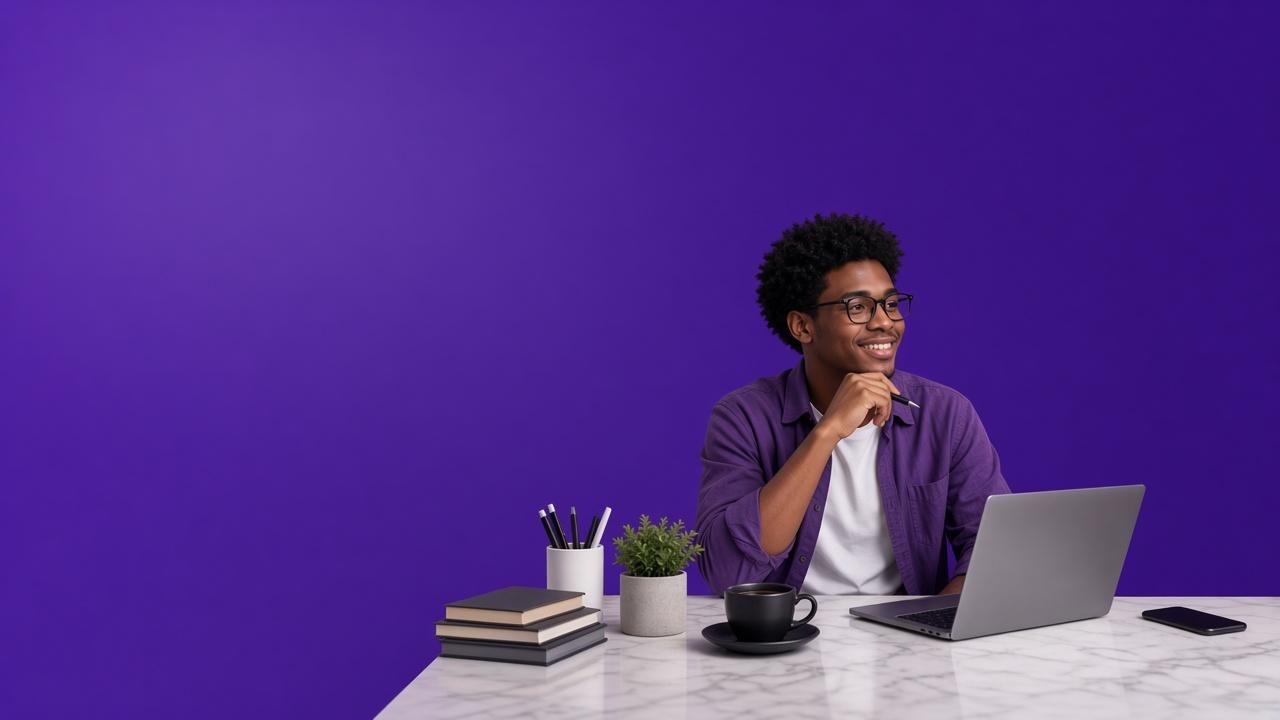
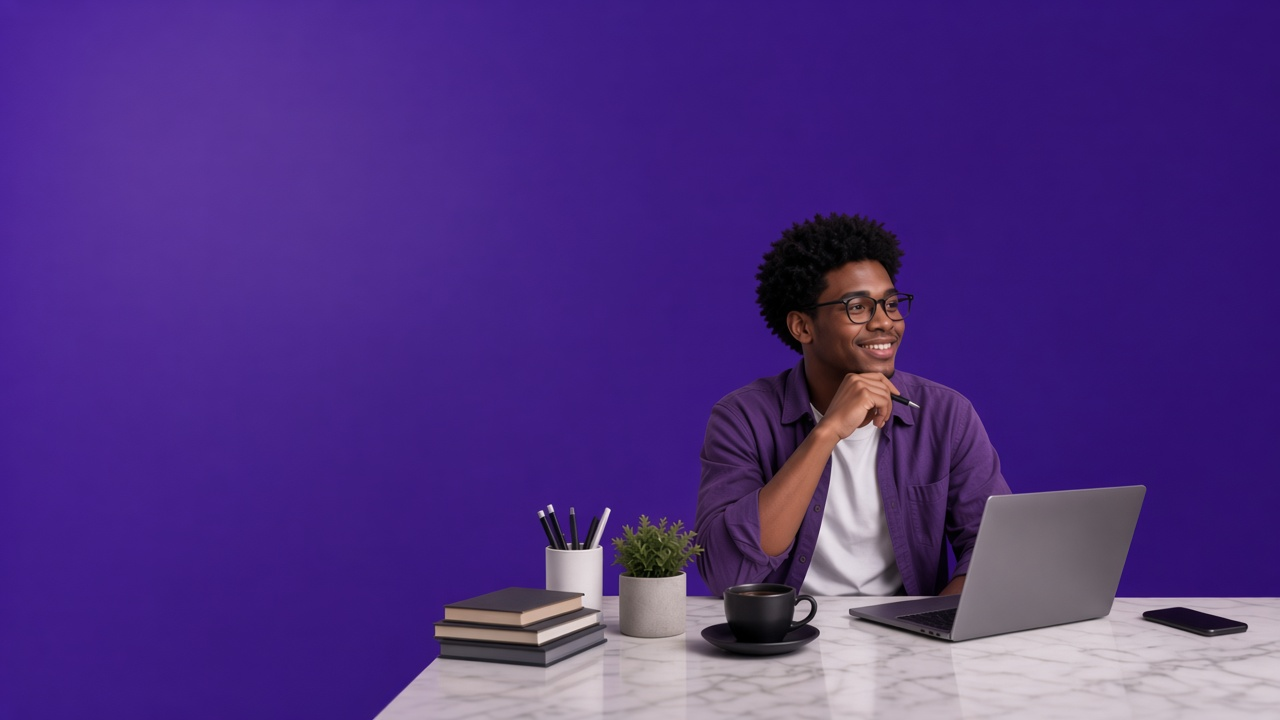
Polish Beyond AI to match the full-bleed touch layout.
Tighten the left copy to two title lines and replace the boxed preview with a glass website mockup over the scene photo.

diff --git a/components/home/beyond-ai-section.tsx b/components/home/beyond-ai-section.tsx
@@ -8,7 +8,6 @@ import {
   ArrowRight,
   Check,
   Globe,
-  Menu,
   PenLine,
   Sparkles,
   Zap,
@@ -30,6 +29,16 @@ const stepIcons: Record<CmsBeyondAiHighlight["icon"], typeof Zap> = {
   rocket: Globe,
 };
 
+const previewThumbs = [
+  {
+    src: "/images/home/beyond-ai/alpine-trails.jpg",
+    label: "Adventure Awaits",
+  },
+  { src: "/images/home/beyond-ai/luxe-stay.jpg", label: "Stay" },
+  { src: "/images/home/beyond-ai/ocean-escapes.jpg", label: "Coast" },
+  { src: "/images/home/beyond-ai/desert-dunes.jpg", label: "City" },
+];
+
 function FloatChip({
   className,
   delay,
@@ -42,11 +51,11 @@ function FloatChip({
   return (
     <motion.span
       className={cn(
-        "absolute z-20 grid size-[52px] place-items-center rounded-[18px] bg-[#7c3aed] text-white shadow-[0_16px_32px_rgba(47,28,106,0.32)] ring-1 ring-white/20",
+        "absolute z-20 grid size-11 place-items-center rounded-[14px] bg-[#7c3aed] text-white shadow-[0_12px_28px_rgba(47,28,106,0.34)] ring-1 ring-white/25",
         className,
       )}
-      animate={{ y: [0, -10, 0] }}
-      transition={{ duration: 3.6, delay, repeat: Infinity, ease: "easeInOut" }}
+      animate={{ y: [0, -9, 0] }}
+      transition={{ duration: 3.5, delay, repeat: Infinity, ease: "easeInOut" }}
     >
       {children}
     </motion.span>
@@ -55,36 +64,74 @@ function FloatChip({
 
 function PreviewCard({ href }: { href: string }) {
   return (
-    <div className="rounded-[26px] bg-white p-5 shadow-[0_28px_70px_-24px_rgba(15,10,40,0.5)] sm:p-6">
-      <div className="flex items-center justify-between gap-3 text-[10px] font-semibold text-slate-400">
-        <span className="inline-flex items-center gap-1.5 text-[12px] font-extrabold text-[#4c1d95]">
-          <Sparkles className="size-3.5" aria-hidden />
-          Beyond AI
-        </span>
-        <span className="hidden items-center gap-3 xl:flex">
-          Home
-          <span>Templates</span>
-          <span>Features</span>
-          <span>Pricing</span>
-          <span>Sign In</span>
-        </span>
-        <Menu className="size-4 text-slate-400" aria-hidden />
+    <div className="relative">
+      <div className="overflow-hidden rounded-[22px] bg-white/95 p-4 shadow-[0_28px_70px_-20px_rgba(20,8,60,0.45)] ring-1 ring-white/70 backdrop-blur-md sm:p-5">
+        <div className="flex items-center justify-between gap-2 text-[10px] font-semibold text-slate-400">
+          <span className="inline-flex items-center gap-1.5 text-[11px] font-extrabold text-[#4c1d95]">
+            <Sparkles className="size-3.5" aria-hidden />
+            Beyond AI
+          </span>
+          <span className="hidden items-center gap-2.5 xl:flex">
+            Home
+            <span>Templates</span>
+            <span>Features</span>
+            <span>Pricing</span>
+            <span>Sign In</span>
+          </span>
+        </div>
+
+        <div className="mt-4 grid gap-4 sm:grid-cols-[minmax(0,0.95fr)_minmax(0,1.05fr)] sm:items-start">
+          <div>
+            <p className="font-heading text-[1.35rem] leading-[1.08] font-extrabold tracking-[-0.04em] text-slate-950 sm:text-[1.5rem]">
+              Turn Your Ideas
+              <br />
+              Into Real Websites
+            </p>
+            <p className="mt-2 max-w-[15rem] text-[11.5px] leading-relaxed text-slate-500">
+              Drag, drop and make it live in minutes with AI.
+            </p>
+            <Link
+              href={href}
+              className="mt-4 inline-flex h-9 items-center rounded-full bg-[#7c3aed] px-4 text-[12px] font-bold text-white"
+            >
+              Start Building
+            </Link>
+          </div>
+
+          <div className="grid gap-2">
+            <div className="relative h-[88px] overflow-hidden rounded-xl sm:h-[96px]">
+              <Image
+                src={previewThumbs[0].src}
+                alt=""
+                fill
+                className="object-cover"
+                sizes="220px"
+              />
+              <span className="absolute bottom-1.5 left-2 text-[10px] font-bold text-white drop-shadow">
+                Adventure Awaits
+              </span>
+            </div>
+            <div className="grid grid-cols-3 gap-2">
+              {previewThumbs.slice(1).map((thumb) => (
+                <div
+                  key={thumb.src}
+                  className="relative h-12 overflow-hidden rounded-lg"
+                >
+                  <Image
+                    src={thumb.src}
+                    alt=""
+                    fill
+                    className="object-cover"
+                    sizes="80px"
+                  />
+                </div>
+              ))}
+            </div>
+          </div>
+        </div>
       </div>
-      <p className="font-heading mt-6 text-[1.7rem] leading-[1.08] font-extrabold tracking-[-0.045em] text-slate-950 sm:text-[1.85rem]">
-        Turn Your Ideas
-        <br />
-        Into Real Websites
-      </p>
-      <p className="mt-2 max-w-[16rem] text-[12.5px] leading-relaxed text-slate-500">
-        Drag, drop and make it live in minutes with AI.
-      </p>
-      <Link
-        href={href}
-        className="mt-5 inline-flex h-10 items-center rounded-full bg-[#7c3aed] px-5 text-[13px] font-bold text-white"
-      >
-        Start Building
-      </Link>
-      <p className="mt-5 inline-flex items-center gap-2 rounded-full bg-slate-50 px-3 py-1.5 text-[11px] font-semibold text-slate-600 ring-1 ring-slate-200">
+
+      <p className="absolute right-3 -bottom-4 inline-flex items-center gap-2 rounded-full bg-white px-3 py-1.5 text-[11px] font-semibold text-slate-600 shadow-[0_10px_24px_rgba(20,8,60,0.16)] ring-1 ring-slate-100">
         <Globe className="size-3.5 text-[#7c3aed]" aria-hidden />
         Live Website
         <span className="font-medium text-slate-400">Ready in minutes</span>
@@ -104,7 +151,7 @@ export function BeyondAiSection({ content }: { content?: CmsBeyondAiContent }) {
   const ctaHref = data.primaryCtaHref || routes.beyondAi;
 
   return (
-    <section className="relative overflow-hidden bg-[#6d28d9] !py-0">
+    <section className="relative overflow-hidden bg-[#4c1d95] !py-0">
       <Image
         src={scene}
         alt=""
@@ -113,79 +160,83 @@ export function BeyondAiSection({ content }: { content?: CmsBeyondAiContent }) {
         className="hidden object-cover object-[center_center] lg:block"
         sizes="100vw"
       />
+      <div
+        aria-hidden
+        className="pointer-events-none absolute inset-0 hidden bg-[radial-gradient(ellipse_at_62%_42%,rgba(167,139,250,0.22),transparent_42%)] lg:block"
+      />
 
-      <div className="hb-shell relative z-10 grid items-center py-16 sm:py-20 lg:min-h-[44rem] lg:grid-cols-[minmax(0,0.92fr)_minmax(0,1.08fr)] lg:py-0 xl:min-h-[48rem]">
+      <div className="hb-shell relative z-10 grid items-center py-14 sm:py-16 lg:min-h-[40rem] lg:grid-cols-[minmax(0,0.86fr)_minmax(0,1.14fr)] lg:py-0 xl:min-h-[44rem]">
         <motion.div
-          initial={reduce ? false : { opacity: 0, y: 18 }}
+          initial={reduce ? false : { opacity: 0, y: 16 }}
           whileInView={{ opacity: 1, y: 0 }}
           viewport={{ once: true, amount: 0.35 }}
-          transition={{ duration: 0.5 }}
-          className="max-w-[34rem]"
+          transition={{ duration: 0.48 }}
+          className="max-w-[30rem]"
         >
           <motion.p
             initial={reduce ? false : { opacity: 0, y: 8 }}
             whileInView={{ opacity: 1, y: 0 }}
             viewport={{ once: true }}
-            className="inline-flex items-center gap-2 text-[1.35rem] font-extrabold tracking-tight text-white"
+            className="inline-flex items-center gap-1.5 text-[17px] font-extrabold tracking-tight text-white"
           >
-            <Sparkles className="size-5 text-[#ddd6fe]" aria-hidden />
+            <Sparkles className="size-4 text-[#ddd6fe]" aria-hidden />
             {data.badge}
           </motion.p>
 
-          <h2 className="font-heading mt-5 text-[clamp(2.6rem,5.4vw,4.45rem)] leading-[0.95] font-extrabold tracking-[-0.05em] text-white">
+          <h2 className="font-heading mt-3 text-[clamp(2.45rem,4.8vw,4rem)] leading-[0.98] font-extrabold tracking-[-0.045em] text-white">
             {titleLines.map((line, index) => (
               <motion.span
                 key={line}
                 className="block"
-                initial={reduce ? false : { opacity: 0, y: 14 }}
+                initial={reduce ? false : { opacity: 0, y: 12 }}
                 whileInView={{ opacity: 1, y: 0 }}
                 viewport={{ once: true }}
-                transition={{ delay: 0.06 * (index + 1) }}
+                transition={{ delay: 0.05 * (index + 1) }}
               >
                 {line}
               </motion.span>
             ))}
             <motion.span
-              className="block"
-              initial={reduce ? false : { opacity: 0, y: 14 }}
+              className="block text-[#f5f3ff]"
+              initial={reduce ? false : { opacity: 0, y: 12 }}
               whileInView={{ opacity: 1, y: 0 }}
               viewport={{ once: true }}
-              transition={{ delay: 0.22 }}
+              transition={{ delay: 0.16 }}
             >
               {data.titleAccent}
             </motion.span>
           </h2>
 
           <motion.p
-            className="mt-5 max-w-[27rem] text-[16px] leading-relaxed text-white/88 sm:text-[17px]"
+            className="mt-4 max-w-[22.5rem] text-[15px] leading-snug text-white/80"
             initial={reduce ? false : { opacity: 0 }}
             whileInView={{ opacity: 1 }}
             viewport={{ once: true }}
-            transition={{ delay: 0.28 }}
+            transition={{ delay: 0.22 }}
           >
             {data.description}
           </motion.p>
 
-          <ul className="mt-8 space-y-5">
+          <ul className="mt-6 space-y-3.5">
             {steps.map((item, index) => {
               const Icon = stepIcons[item.icon] ?? Zap;
               return (
                 <motion.li
                   key={item.id}
-                  className="flex items-start gap-3.5"
-                  initial={reduce ? false : { opacity: 0, x: -12 }}
+                  className="flex items-start gap-3"
+                  initial={reduce ? false : { opacity: 0, x: -10 }}
                   whileInView={{ opacity: 1, x: 0 }}
                   viewport={{ once: true }}
-                  transition={{ delay: 0.32 + index * 0.08 }}
+                  transition={{ delay: 0.26 + index * 0.07 }}
                 >
-                  <span className="mt-0.5 inline-flex size-9 shrink-0 items-center justify-center rounded-full bg-white/12 text-white ring-1 ring-white/20">
-                    <Icon className="size-4" aria-hidden />
+                  <span className="mt-0.5 inline-flex size-8 shrink-0 items-center justify-center rounded-full bg-white/10 text-white">
+                    <Icon className="size-3.5" aria-hidden />
                   </span>
                   <span>
-                    <span className="block text-[15px] font-extrabold text-white">
+                    <span className="block text-[14px] font-extrabold text-white">
                       {item.title}
                     </span>
-                    <span className="mt-0.5 block text-[13px] text-white/72">
+                    <span className="mt-0.5 block text-[12px] text-white/68">
                       {item.subtitle}
                     </span>
                   </span>
@@ -195,17 +246,17 @@ export function BeyondAiSection({ content }: { content?: CmsBeyondAiContent }) {
           </ul>
 
           <motion.div
-            initial={reduce ? false : { opacity: 0, y: 10 }}
+            initial={reduce ? false : { opacity: 0, y: 8 }}
             whileInView={{ opacity: 1, y: 0 }}
             viewport={{ once: true }}
-            transition={{ delay: 0.58 }}
+            transition={{ delay: 0.5 }}
           >
             <Link
               href={ctaHref}
               className={cn(
-                "group relative mt-9 inline-flex h-12 items-center gap-2 overflow-hidden rounded-full bg-white px-7 text-[15px] font-bold text-[#5b21b6]",
-                "shadow-[0_16px_40px_rgba(15,10,40,0.28)] transition duration-300",
-                "hover:-translate-y-0.5 hover:shadow-[0_20px_46px_rgba(15,10,40,0.38)]",
+                "group relative mt-7 inline-flex h-11 items-center gap-2 overflow-hidden rounded-full bg-white px-6 text-[14px] font-bold text-[#5b21b6]",
+                "shadow-[0_14px_32px_rgba(15,10,40,0.24)] transition duration-300",
+                "hover:-translate-y-0.5 hover:shadow-[0_18px_40px_rgba(15,10,40,0.32)]",
               )}
             >
               <span
@@ -218,36 +269,36 @@ export function BeyondAiSection({ content }: { content?: CmsBeyondAiContent }) {
           </motion.div>
         </motion.div>
 
-        <div className="relative hidden h-full min-h-[36rem] lg:block">
-          <FloatChip className="top-[11%] right-[36%]" delay={0}>
-            <Sparkles className="size-5" />
+        <div className="relative hidden h-full min-h-[34rem] lg:block">
+          <FloatChip className="top-[22%] right-[54%]" delay={0}>
+            <Sparkles className="size-[18px]" />
           </FloatChip>
-          <FloatChip className="top-[8%] right-[8%]" delay={0.55}>
-            <AppWindow className="size-5" />
+          <FloatChip className="top-[6%] right-[14%]" delay={0.5}>
+            <AppWindow className="size-[18px]" />
           </FloatChip>
 
           <motion.div
-            className="absolute top-[16%] right-0 w-[min(100%,380px)]"
-            initial={reduce ? false : { opacity: 0, y: 18 }}
+            className="absolute top-[12%] right-0 w-[min(100%,520px)]"
+            initial={reduce ? false : { opacity: 0, y: 16 }}
             whileInView={{ opacity: 1, y: 0 }}
             viewport={{ once: true }}
-            transition={{ delay: 0.18, duration: 0.5 }}
+            transition={{ delay: 0.16, duration: 0.48 }}
           >
             <PreviewCard href={ctaHref} />
           </motion.div>
         </div>
       </div>
 
-      <div className="relative h-[20rem] overflow-hidden sm:h-[24rem] lg:hidden">
+      <div className="relative h-[19rem] overflow-hidden sm:h-[22rem] lg:hidden">
         <Image
           src={scene}
           alt=""
           fill
-          className="object-cover object-[78%_center]"
+          className="object-cover object-[62%_center]"
           sizes="100vw"
         />
         <motion.div
-          className="absolute right-4 bottom-5 w-[min(100%-2rem,280px)]"
+          className="absolute inset-x-4 bottom-6"
           initial={reduce ? false : { opacity: 0, y: 12 }}
           whileInView={{ opacity: 1, y: 0 }}
           viewport={{ once: true }}

diff --git a/lib/orbit/defaults.ts b/lib/orbit/defaults.ts
@@ -1089,8 +1089,8 @@ export function defaultBeyondAiSection(): CmsBeyondAiContent {
     visual: "workspace",
     badge: "Beyond AI",
     badgeSecondary: "",
-    title: "Build Your\nDream",
-    titleAccent: "Website",
+    title: "Build Your",
+    titleAccent: "Dream Website",
     description:
       "Create stunning websites in minutes with AI. No coding. Just your ideas.",
     primaryCtaLabel: "Get Started",
@@ -2927,7 +2927,10 @@ function mergeBeyondAiSection(
     ? stored.saasItems.map((item) => item.trim()).filter(Boolean)
     : defaults.saasItems;
 
+  const staleTwoLineTitle = stored.title === "Build Your\nDream";
+
   const legacyHero =
+    staleTwoLineTitle ||
     /create stunning/i.test(stored.title ?? "") ||
     /start building with beyond ai/i.test(stored.primaryCtaLabel ?? "") ||
     /built for everyone/i.test(stored.badgeSecondary ?? "") ||
